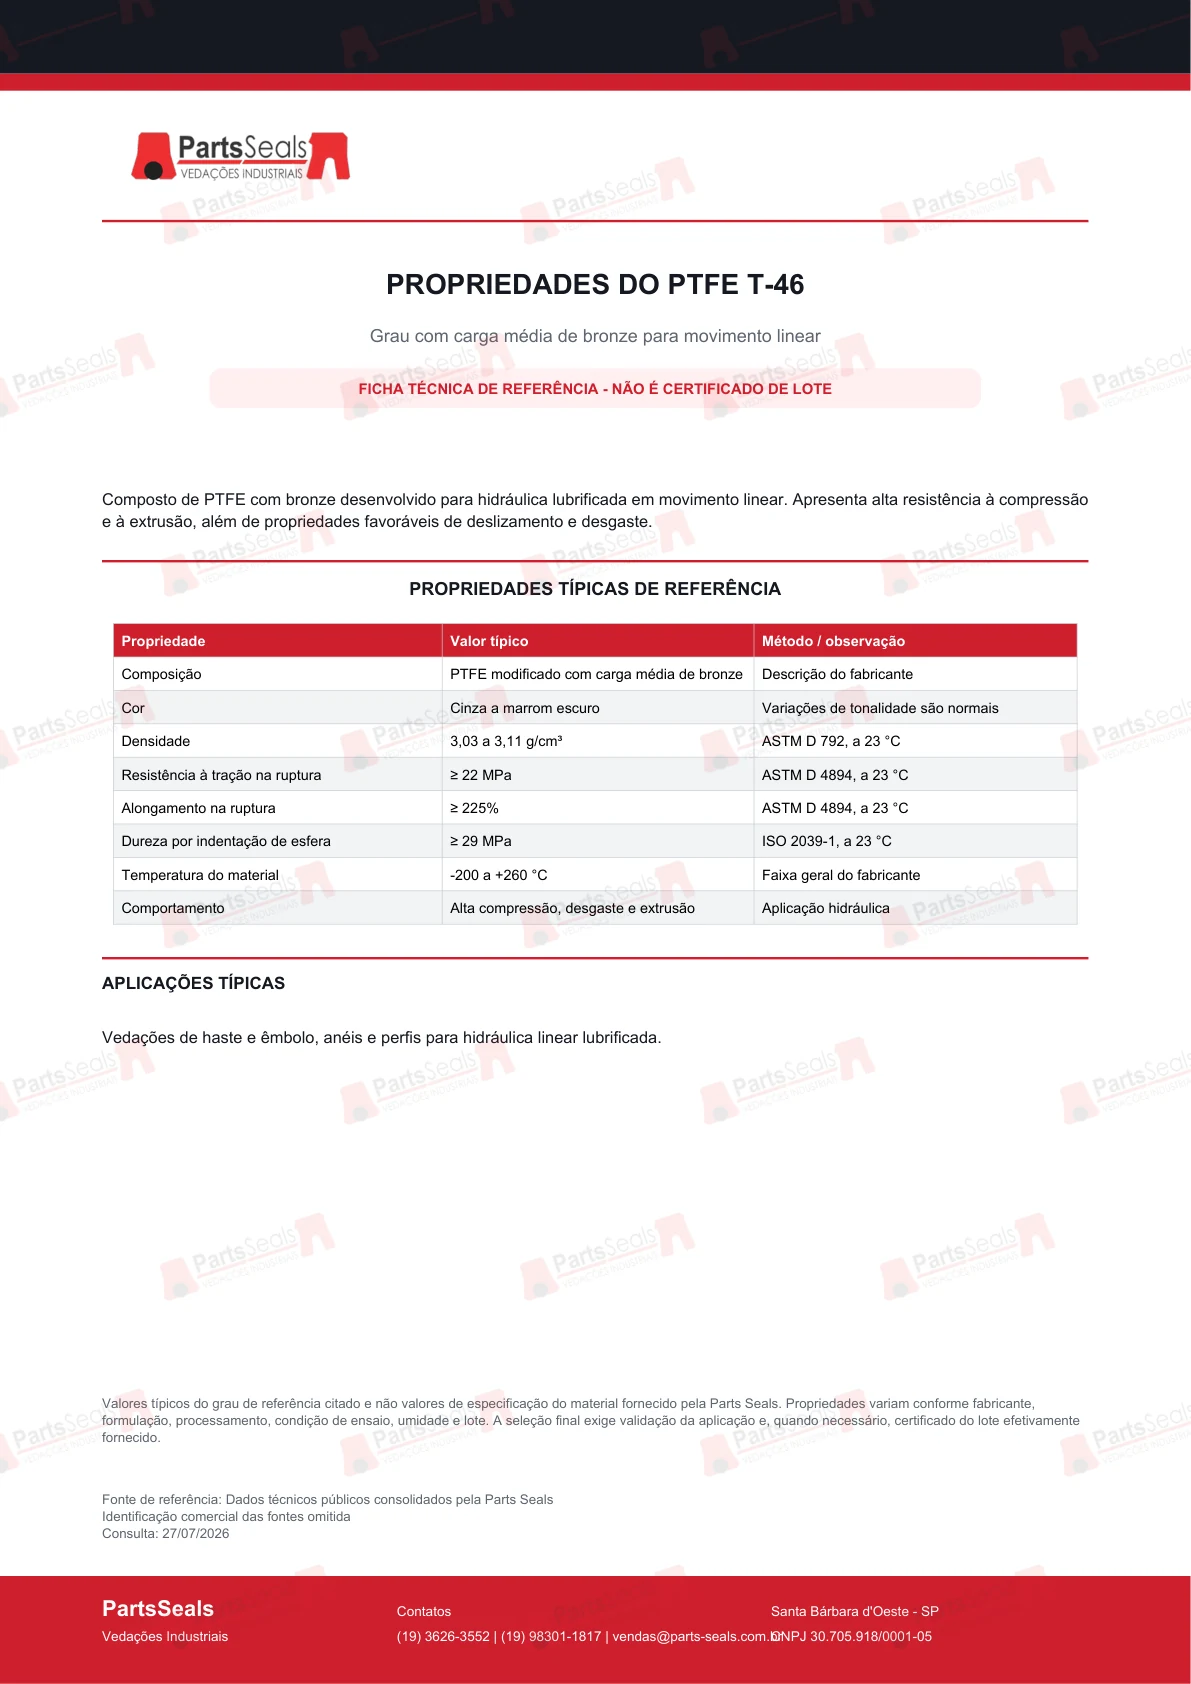
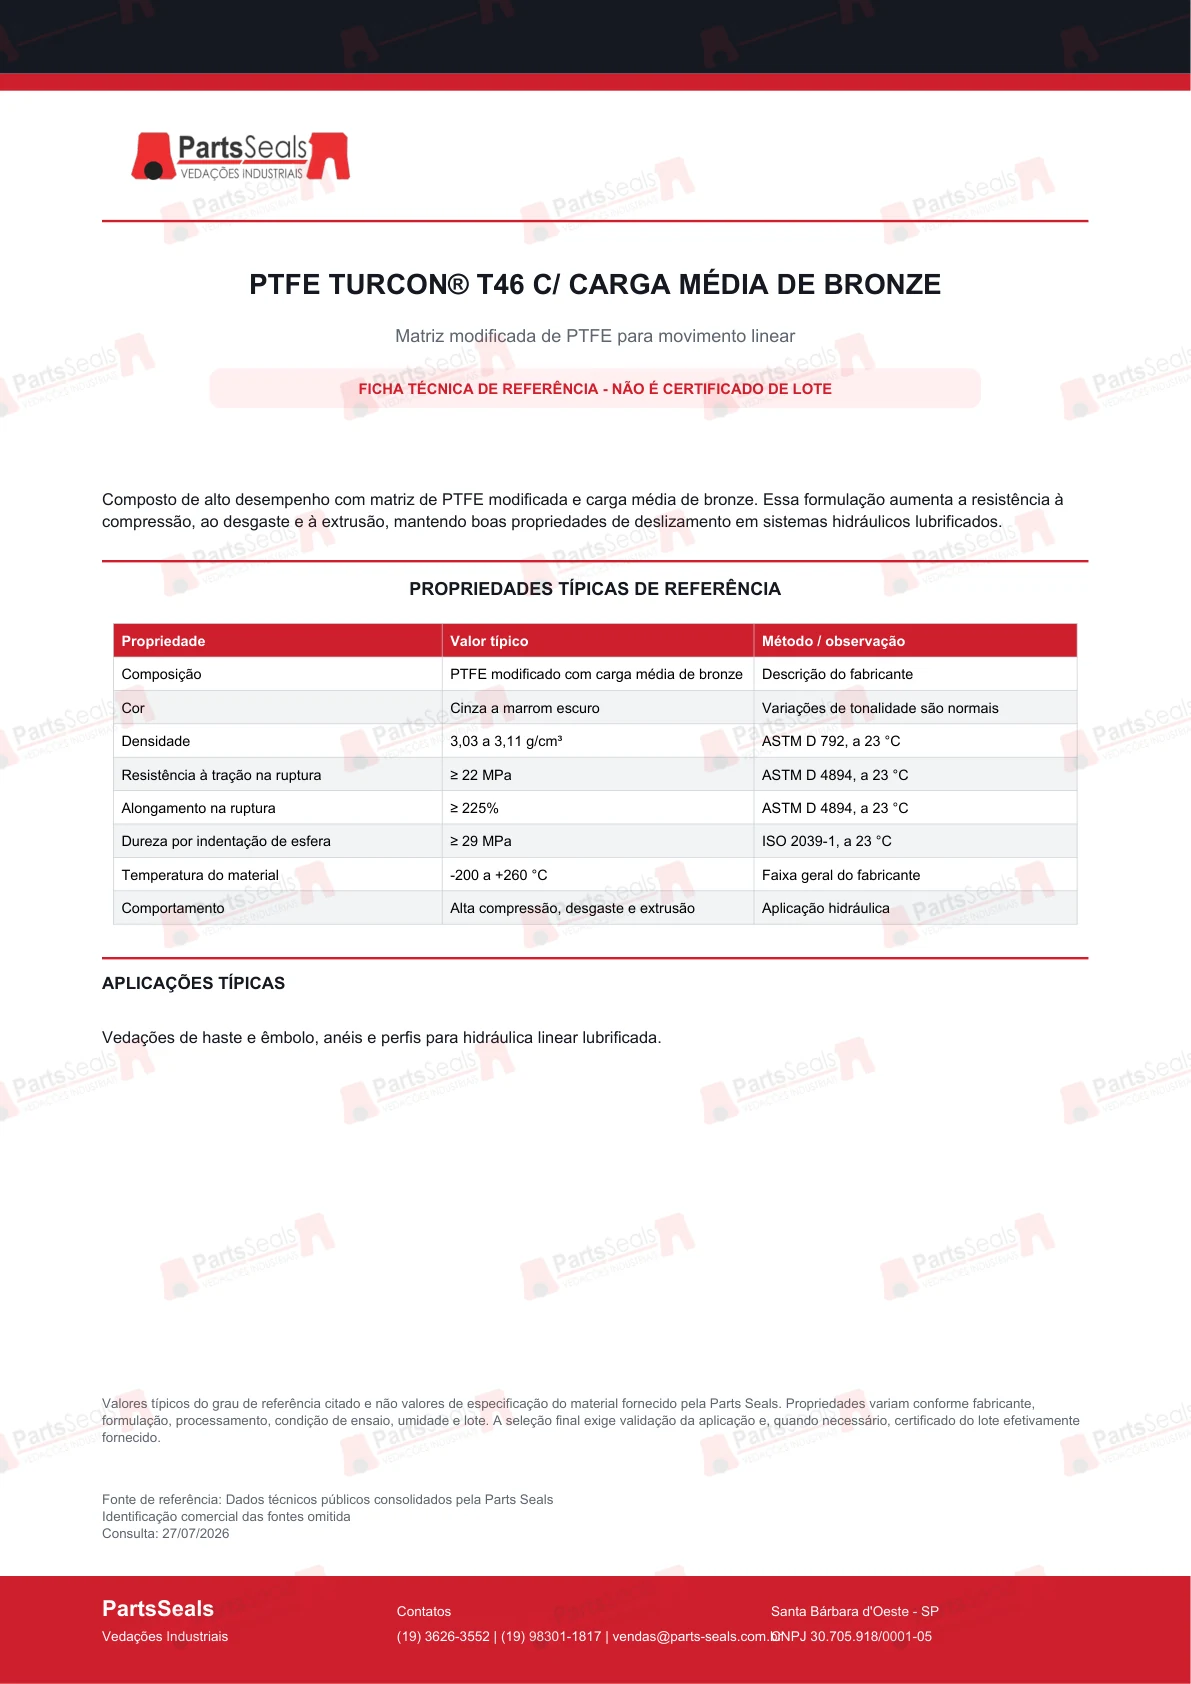
Atualiza nome e descricao do PTFE TURCON T46

Changed region(s): [[0.1553, 0.2779, 0.9009, 0.3397], [0.2175, 0.1544, 0.8077, 0.2162]]

diff --git a/js/materials.js b/js/materials.js
@@ -127,7 +127,7 @@
     { name: "PTFE com fibra de carbono", aliases: ["ptfe com fibra de carbono", "ptfe carbono", "teflon carbono", "tef carbono"], min: -100, max: 260, detail: "Favorece estabilidade e resistência ao desgaste em aplicações dinâmicas." },
     { name: "PTFE com fibra de vidro", aliases: ["ptfe com fibra de vidro", "ptfe vidro", "teflon vidro", "tef vidro"], min: -100, max: 260, detail: "Favorece rigidez, compressão e menor fluência." },
     { name: "PTFE com molibdênio", aliases: ["ptfe com molibdenio", "ptfe molibdenio", "teflon molibdenio", "tef mos2", "ptfe mos2"], min: -100, max: 250, detail: "Favorece baixo atrito e desgaste em movimento seco ou intermitente." },
-    { name: "PTFE T-46", aliases: ["ptfe t 46", "t 46", "t46"], min: -200, max: 260, detail: "Grau de PTFE com bronze voltado a hidráulica lubrificada, movimento linear e resistência à extrusão." },
+    { name: "PTFE TURCON® T46 C/ CARGA MÉDIA DE BRONZE", aliases: ["ptfe turcon t46", "turcon t46", "ptfe t 46", "t 46", "t46"], min: -200, max: 260, detail: "A matriz de PTFE modificada com carga média de bronze favorece compressão, desgaste, extrusão e deslizamento em hidráulica lubrificada." },
     { name: "PTFE virgem", aliases: ["ptfe virgem", "teflon virgem", "tef virgem", "ptfe puro", "teflon puro"], min: -200, max: 260, detail: "Oferece ampla compatibilidade química e baixíssimo atrito." },
     { name: "Poliamida técnica PA6 / PA66", aliases: ["poliamida tecnica", "pa tecnica", "pa6 pa66"], min: -30, max: 150, detail: "A faixa depende do grau, reforço, umidade e condição de carga." },
     { name: "Nylon 6.6", aliases: ["nylon 6 6", "nylon 66", "pa66", "pa 66"], min: -30, max: 100, short: 170, detail: "Boa rigidez, mas a absorção de umidade altera dimensões e propriedades." },
@@ -365,11 +365,11 @@
       versatility: 3,
     },
     {
-      name: "PTFE T-46",
-      code: "T-46",
+      name: "PTFE TURCON® T46 C/ CARGA MÉDIA DE BRONZE",
+      code: "T46",
       family: "PTFE e compostos",
       anchor: "ptfe",
-      summary: "PTFE com bronze voltado à hidráulica lubrificada em movimento linear, pressão e resistência à extrusão.",
+      summary: "Matriz de PTFE modificada com carga média de bronze para hidráulica lubrificada, movimento linear, pressão e resistência à extrusão.",
       fluids: ["oleo"],
       temperatures: [-200, 260],
       pressures: ["alta", "muito-alta"],
@@ -600,7 +600,7 @@
 
     var highHydraulicPressure = values.pressure === "alta" || values.pressure === "muito-alta";
     if (values.fluid === "oleo" && values.motion === "alternado" && highHydraulicPressure) {
-      if (material.name === "PTFE T-46") score += 6;
+      if (material.name === "PTFE TURCON® T46 C/ CARGA MÉDIA DE BRONZE") score += 6;
       if (material.name === "PTFE com bronze") score += 4;
       if (material.name === "Poliuretano") score += 3;
     }

diff --git a/materiais.html b/materiais.html
@@ -321,15 +321,15 @@
           </article>
 
           <article class="material-library-card">
-            <header class="material-library-card__header"><span class="material-library-card__code">T-46</span><div><h3>PTFE T-46</h3><span class="material-library-card__family">PTFE com carga de bronze</span></div></header>
-            <p>PTFE modificado com carga média de bronze, desenvolvido para hidráulica lubrificada, movimento linear e alta resistência à extrusão.</p>
+            <header class="material-library-card__header"><span class="material-library-card__code">T46</span><div><h3>PTFE TURCON® T46 C/ CARGA MÉDIA DE BRONZE</h3><span class="material-library-card__family">Matriz modificada de PTFE</span></div></header>
+            <p>Composto de alto desempenho com matriz de PTFE modificada e carga média de bronze. Essa formulação aumenta a resistência à compressão, ao desgaste e à extrusão, mantendo boas propriedades de deslizamento em sistemas hidráulicos lubrificados.</p>
             <dl class="material-spec-list">
               <div><dt>Temperatura de trabalho</dt><dd>-200 a +260 °C, conforme o grau de referência.</dd></div>
               <div><dt>Indicado para</dt><dd>Hidráulica lubrificada, movimento linear, pressão e alta exigência contra extrusão.</dd></div>
               <div><dt>Perfis e peças</dt><dd>Vedações de haste e êmbolo, anéis e perfis técnicos usinados.</dd></div>
               <div><dt>Atenções</dt><dd>Confirmar origem, compatibilidade, condições da aplicação e certificado do lote fornecido.</dd></div>
             </dl>
-            <div class="material-library-card__actions"><button type="button" class="datasheet-open datasheet-open--reference" data-datasheet-open data-sheet-title="PTFE T-46 — ficha técnica de referência" data-sheet-images="assets/datasheets-view/ptfe-t46-p1.webp">Ficha de referência</button></div>
+            <div class="material-library-card__actions"><button type="button" class="datasheet-open datasheet-open--reference" data-datasheet-open data-sheet-title="PTFE TURCON® T46 C/ CARGA MÉDIA DE BRONZE — ficha técnica de referência" data-sheet-images="assets/datasheets-view/ptfe-t46-p1.webp">Ficha de referência</button></div>
           </article>
 
           <article class="material-library-card">

diff --git a/tools/build_datasheets.py b/tools/build_datasheets.py
@@ -186,12 +186,13 @@ REFERENCE_SHEETS = [
     },
     {
         "filename": "Ficha Técnica de Referência - PTFE T46 - Parts Seals 2026.pdf",
-        "title": "PROPRIEDADES DO PTFE T-46",
-        "subtitle": "Grau com carga média de bronze para movimento linear",
+        "title": "PTFE TURCON® T46 C/ CARGA MÉDIA DE BRONZE",
+        "subtitle": "Matriz modificada de PTFE para movimento linear",
         "description": (
-            "Composto de PTFE com bronze desenvolvido para hidráulica lubrificada em "
-            "movimento linear. Apresenta alta resistência à compressão e à extrusão, "
-            "além de propriedades favoráveis de deslizamento e desgaste."
+            "Composto de alto desempenho com matriz de PTFE modificada e carga média de "
+            "bronze. Essa formulação aumenta a resistência à compressão, ao desgaste e à "
+            "extrusão, mantendo boas propriedades de deslizamento em sistemas hidráulicos "
+            "lubrificados."
         ),
         "properties": [
             ("Composição", "PTFE modificado com carga média de bronze", "Descrição do fabricante"),
@@ -417,7 +418,7 @@ DOC_SPECS = [
         "Certificado de atoxicidade",
     ),
     ("ptfe grafite", "ptfe-grafite", "PTFE com grafite", "Ficha técnica de referência"),
-    ("ptfe t46", "ptfe-t46", "PTFE T-46", "Ficha técnica de referência"),
+    ("ptfe t46", "ptfe-t46", "PTFE TURCON® T46 C/ CARGA MÉDIA DE BRONZE", "Ficha técnica de referência"),
     ("ptfe molibdenio", "ptfe-molibdenio", "PTFE com molibdênio", "Ficha técnica de referência"),
     ("pead", "pead", "PEAD", "Ficha técnica de referência"),
     ("celeron", "celeron", "Celeron", "Ficha técnica de referência"),
